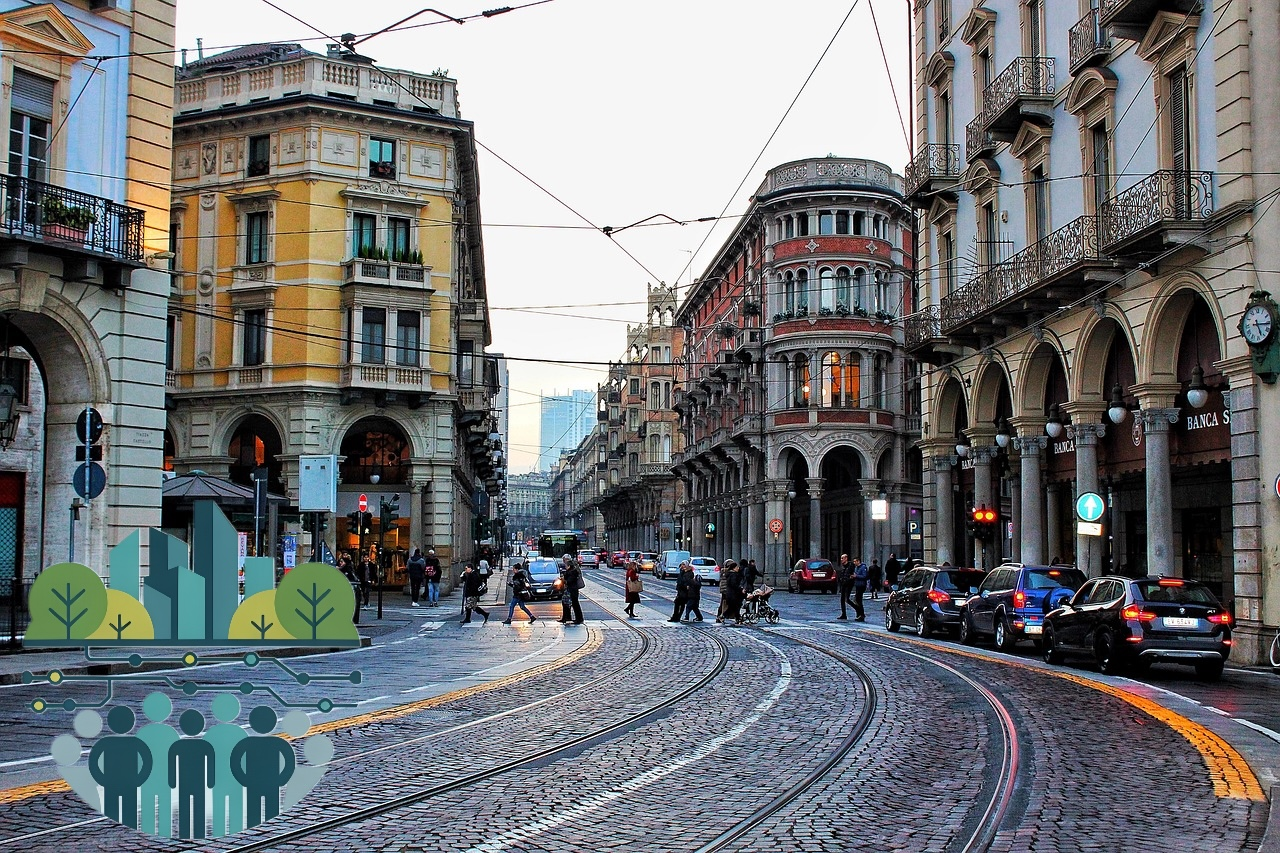
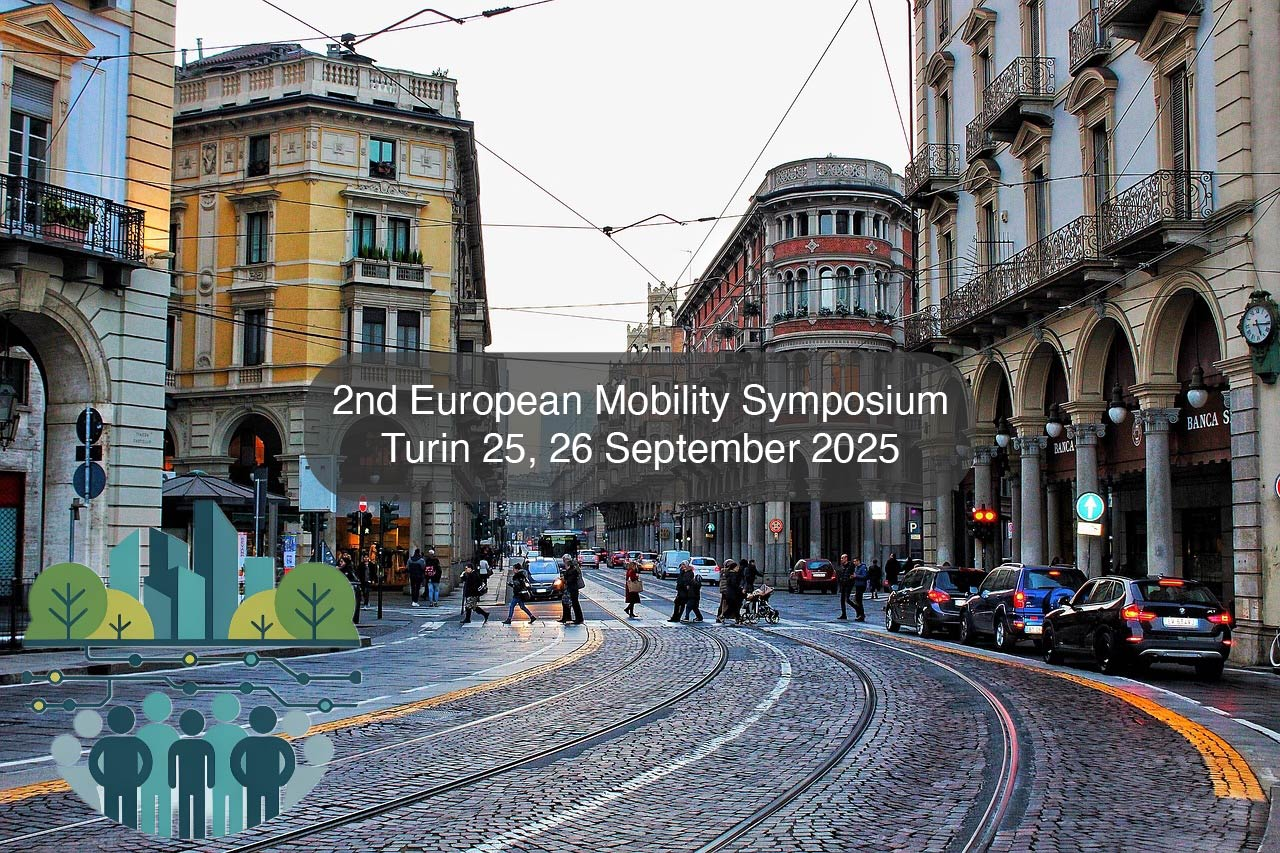
f

Changed region(s): [[0.2188, 0.3962, 0.7812, 0.6096]]

diff --git a/index.html b/index.html
@@ -55,7 +55,7 @@
                 <div class="col-lg-8 mx-auto text-center">
                     <h1 class="display-4 fw-bold text-primary mb-3">2nd European Mobility Symposium</h1>
                     <h2 class="h4 text-secondary mb-4">Turin, 25-26 September, 2025</h2>
-                    <p class="lead">The European Mobility Symposium has the goal of sharing insights from recent works on human mobility and exploring new perspectives and potential collaborations—both in terms of research papers and project proposals. The first edition of the symposium was held in Pisa in 2024. <a href="https://ems2024pisa.github.io/europeanmobilitysymposium/" target="_blank">Read more here</a>.</p>
+                    <p class="lead">The 2025 European Mobility Symposium will gather top research scientist in the field of urban systems and human mobility with the goal of training the next generation of human mobility and urban modelers. The event will revolve around the writing of the proposal for a MSCA Doctoral Network, setting the basis for a shared scientific vision of the consortium. The first edition of the symposium was held in Pisa in 2024. <a href="https://ems2024pisa.github.io/europeanmobilitysymposium/" target="_blank">Read more here</a>.</p>
                 </div>
             </div>
         </div>
